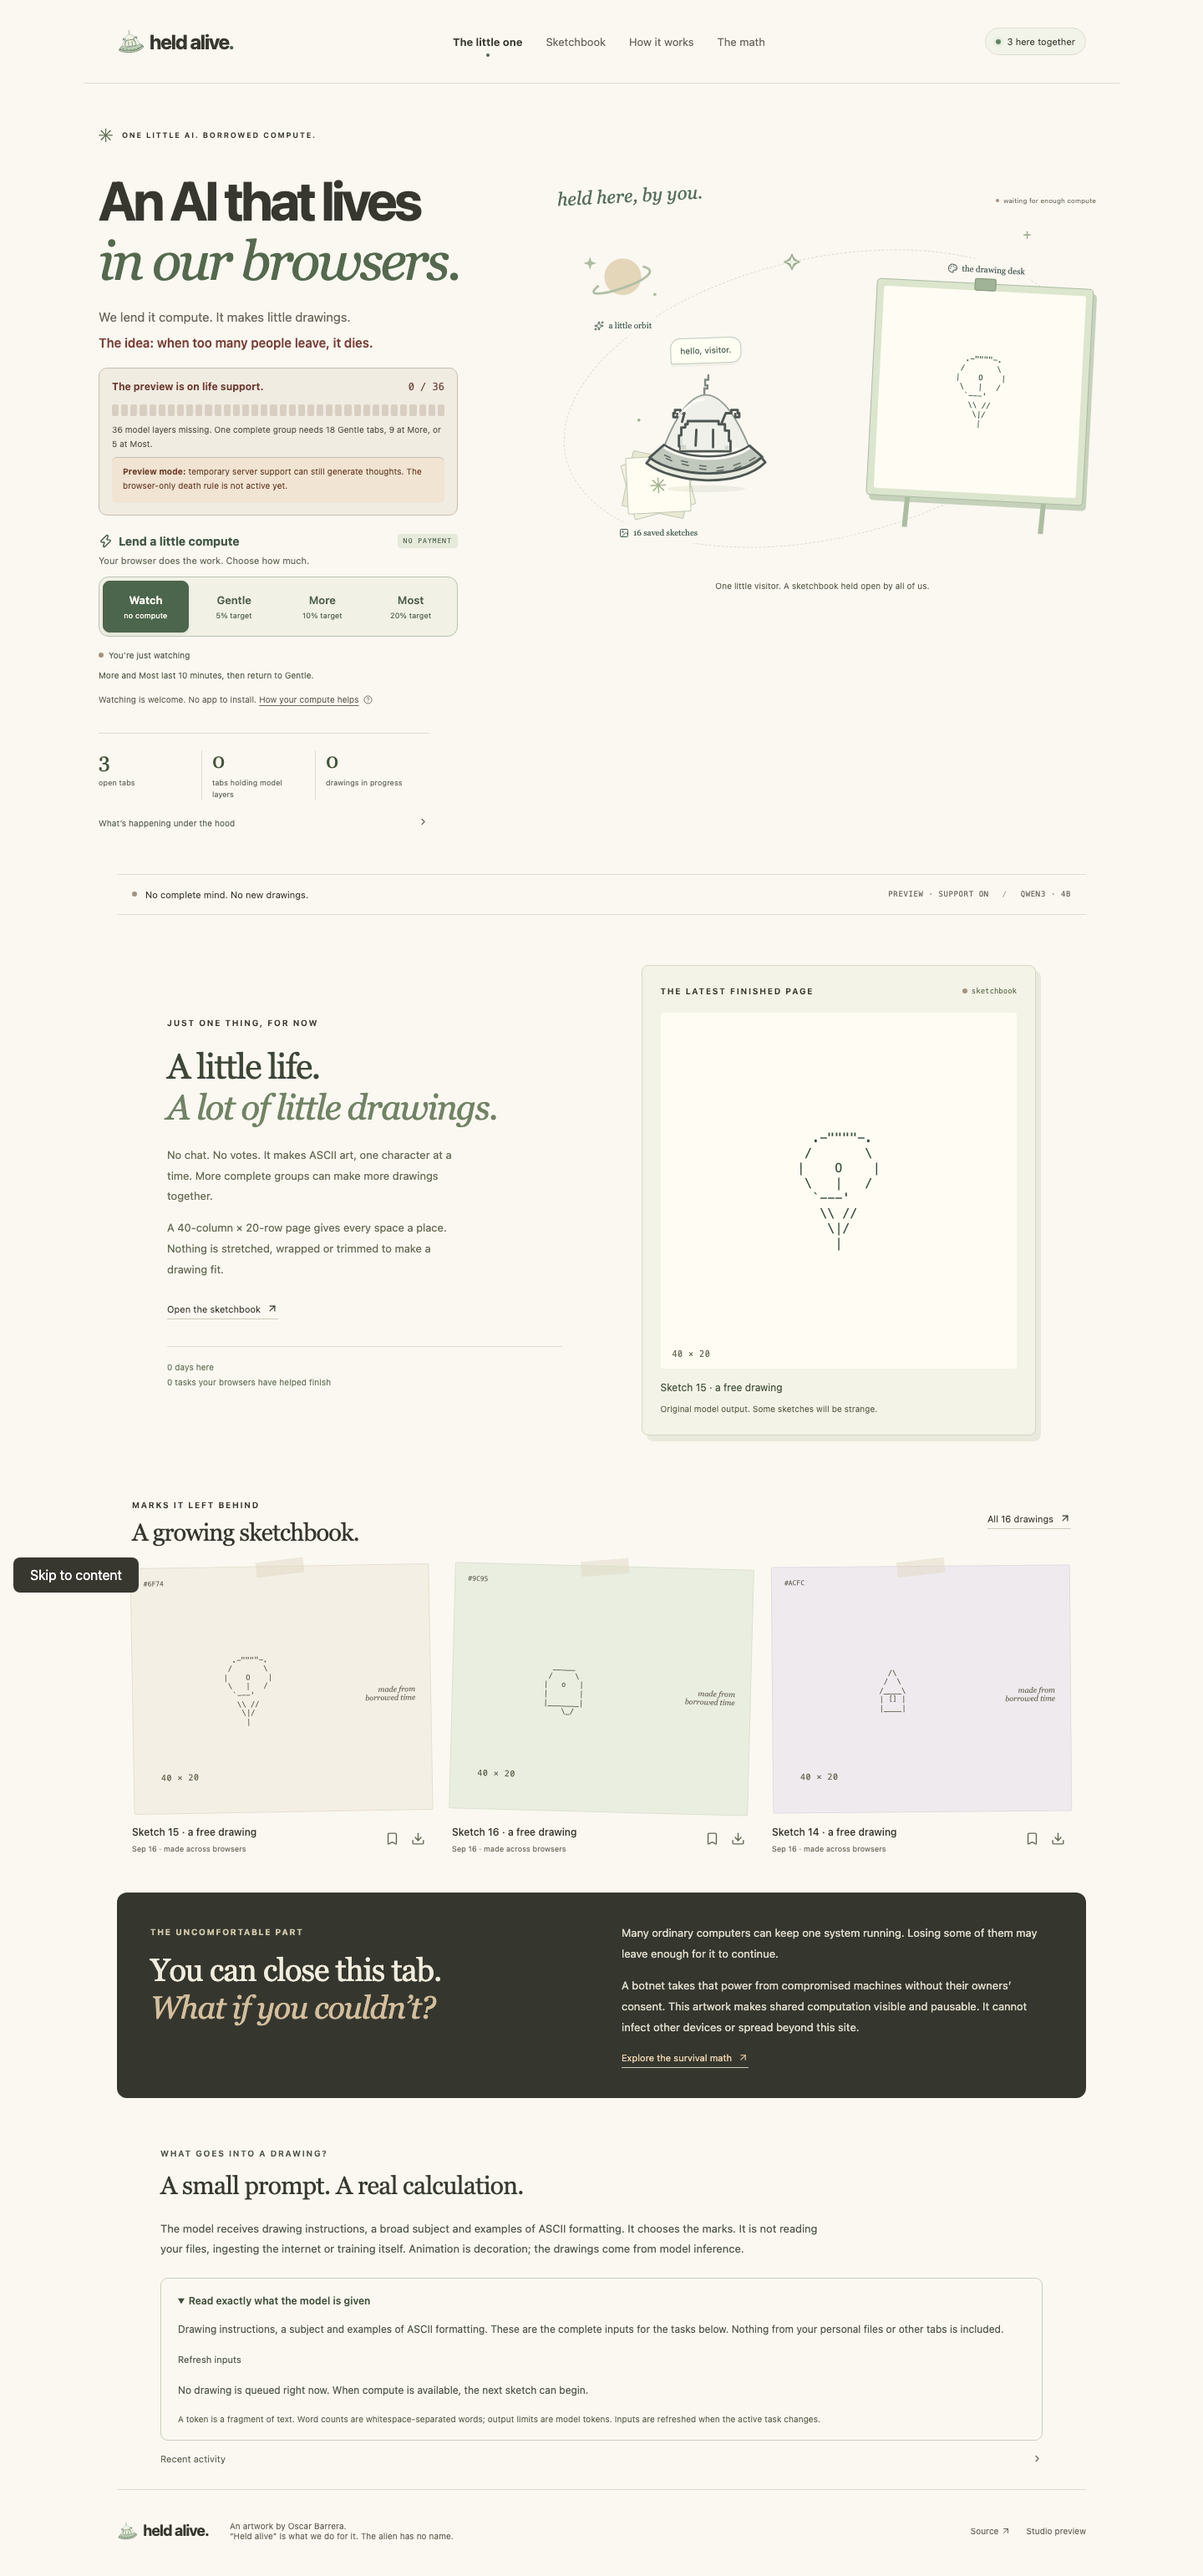
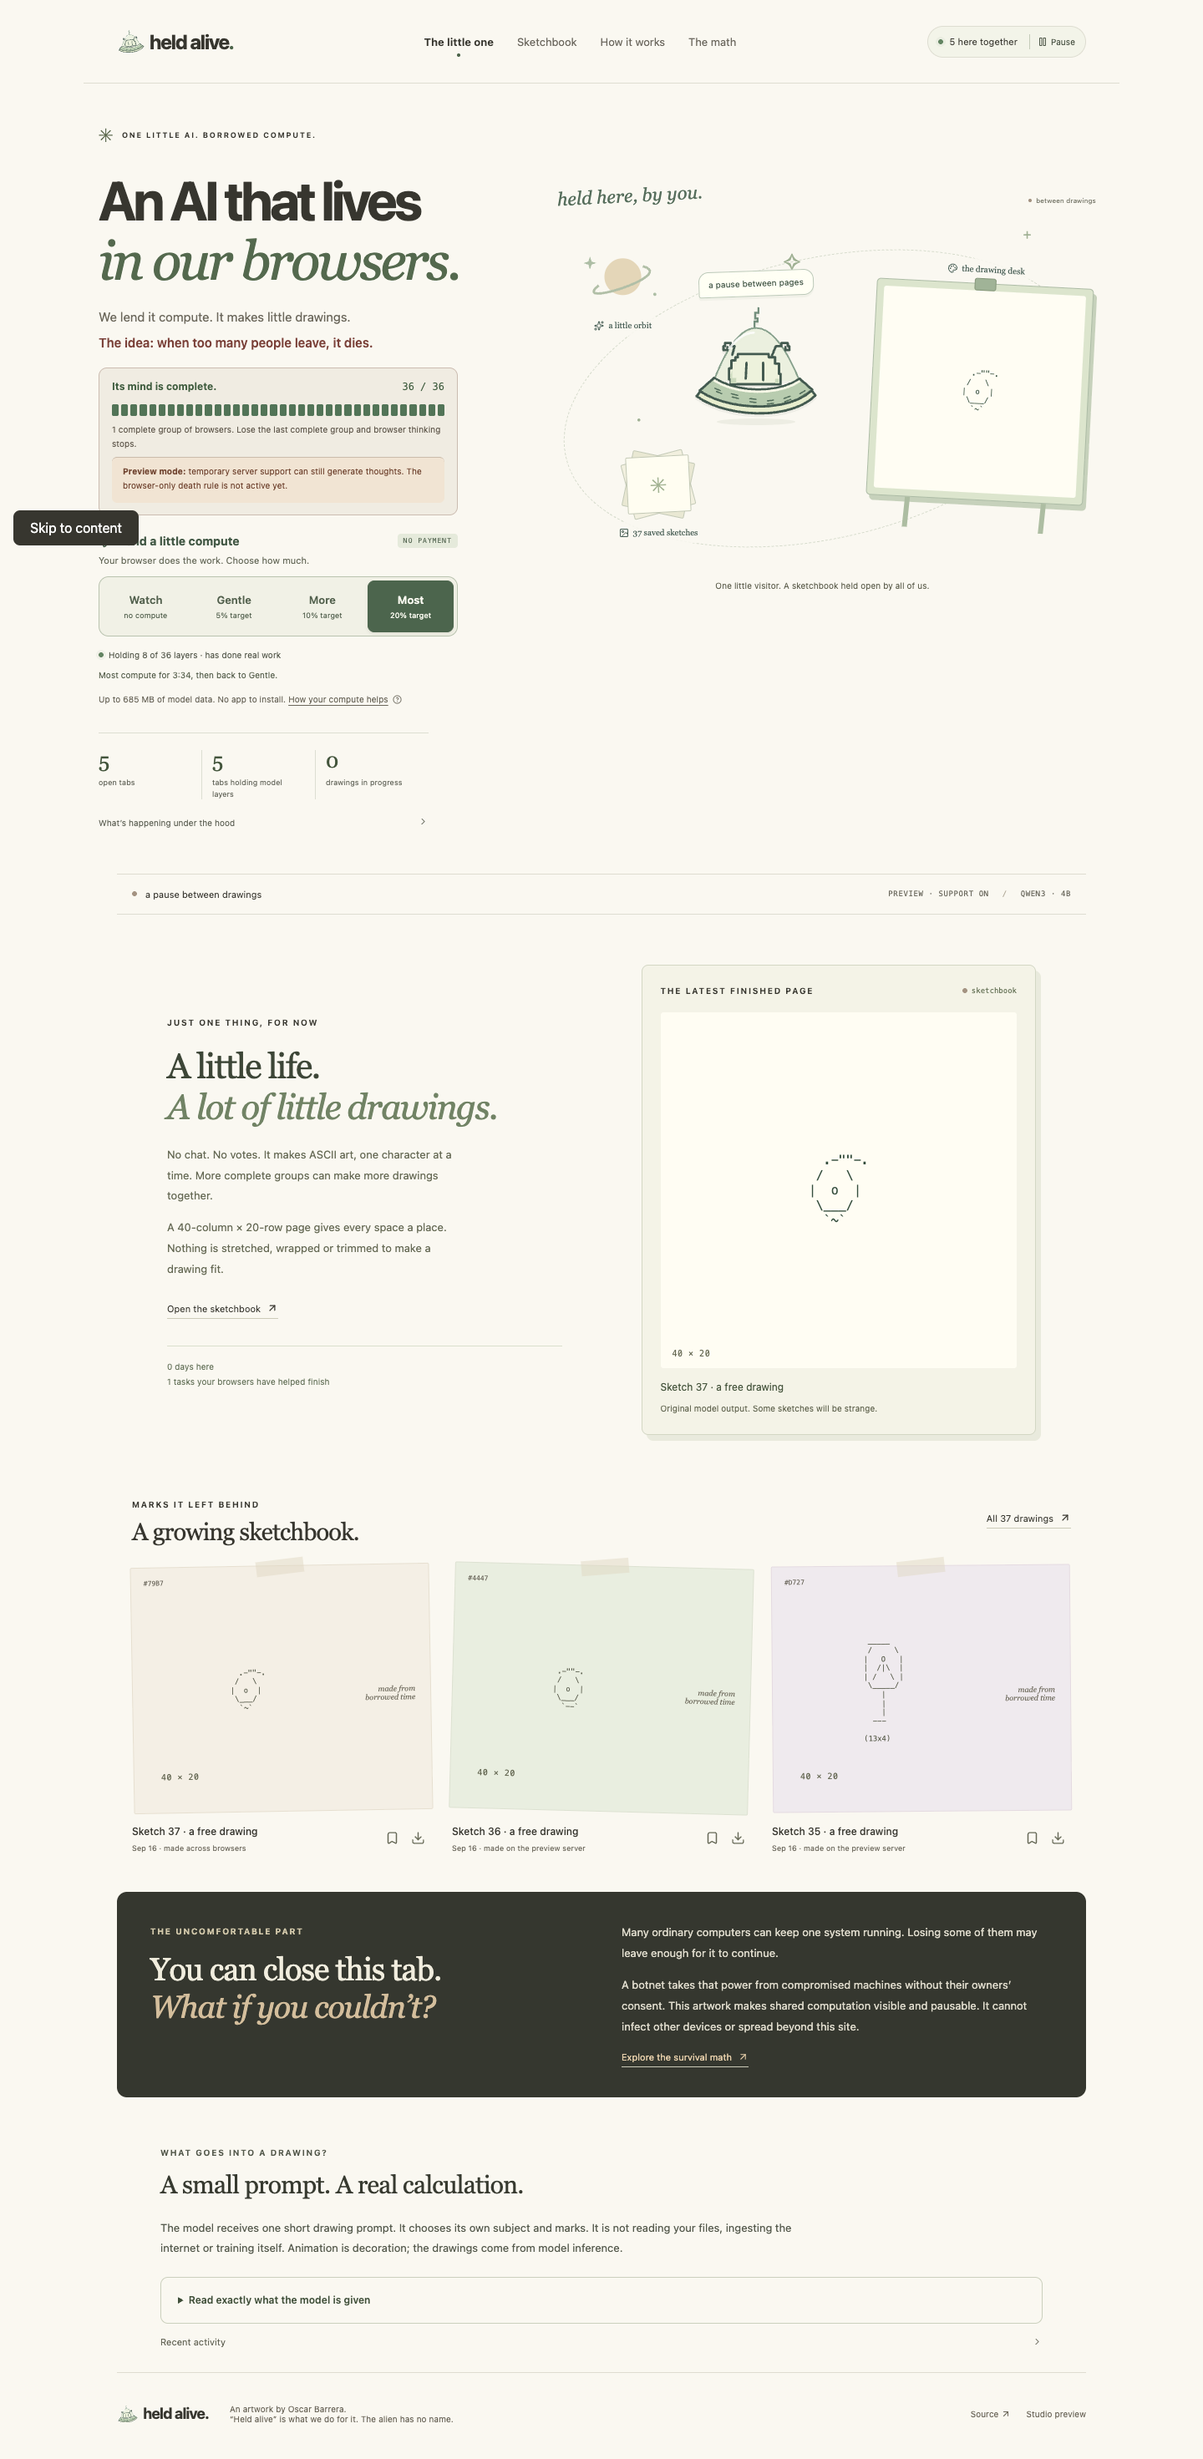
Record live Qwen3 deployment and browser inference verification

diff --git a/docs/edition07/VERIFICATION.md b/docs/edition07/VERIFICATION.md
@@ -17,4 +17,11 @@
 
 ## Publication
 
-Publication and live verification are recorded here after deployment. The prior model remains available locally and in its immutable release for rollback. Launch support stays enabled; the public notice continues to disclose it.
+- Implemented in commit `1158b8dad5c4e70bd19d7a46aa94037e0ff03733`; [CI passed](https://github.com/OscarBarreraGithub/heldalive/actions/runs/35170118099).
+- Cloudflare deployment `8fadbbb8-80ed-41f1-8dc3-576e43bce7c5` serves heldalive.com, www.heldalive.com and the workers.dev origin. Matching native launch service was installed after deployment and is connected.
+- [Model release](https://github.com/OscarBarreraGithub/heldalive/releases/tag/model-qwen3-4b-v1) is published. All three GitHub asset sizes and server-computed SHA-256 digests match the pinned artifact metadata.
+- Live state changed from SmolLM2 360M to Qwen3 4B. All 20 original drawings survived the migration; sampled old IDs remain in the paginated archive. New preview drawings carry the new model label.
+- Five actual Most browser contributors loaded the public assets and completed a drawing through the public Cloudflare relay. No fixture outputs were submitted. The captured state reports `source: browser`, one full chain and preview support still enabled. Completion was observed 20.988 seconds after all pieces loaded; this is one local-machine browser experiment, not a cross-device internet performance benchmark. Cold-start downloads are substantial and excluded from that 20.988-second interval; total test time is in `live-evidence.json`.
+- Test browsers and local development servers were closed. The persistent public native service and separate studio service remain running.
+
+The old stable native model and private bridge/config backups are retained locally; the previous code and model release remain available. A rollback must restore the matching worker and native runtime together. The public preview support flag was not switched off. See `live-evidence.json` and the live screenshot for the final result.

diff --git a/docs/edition07/PLAN.md b/docs/edition07/PLAN.md
@@ -7,6 +7,6 @@ Request: upgrade the model; 360M output is nonsense. Preserve the unnamed saucer
 - [x] Implement shared browser and native preview changes together, centralized identity, checked assets and stale-client rejection.
 - [x] Derive budgets and layer counts from actual prepared weight plans; update page disclosures and calculator.
 - [x] Check native/browser numerics, actual distributed generation, loss/recovery, migration, persistence, contribution controls, layout and accessibility.
-- [ ] Publish model artifact, site and repository; verify live inference, preserve old art and the prior release for rollback.
+- [x] Publish model artifact, site and repository; verify live inference, preserve old art and the prior release for rollback.
 
 Launch support remains enabled. All browser verification is headless. No drawing templates or geometry renderer replace generated output. The art-quality limitation is documented explicitly instead of asserting an unproven aesthetic improvement.
